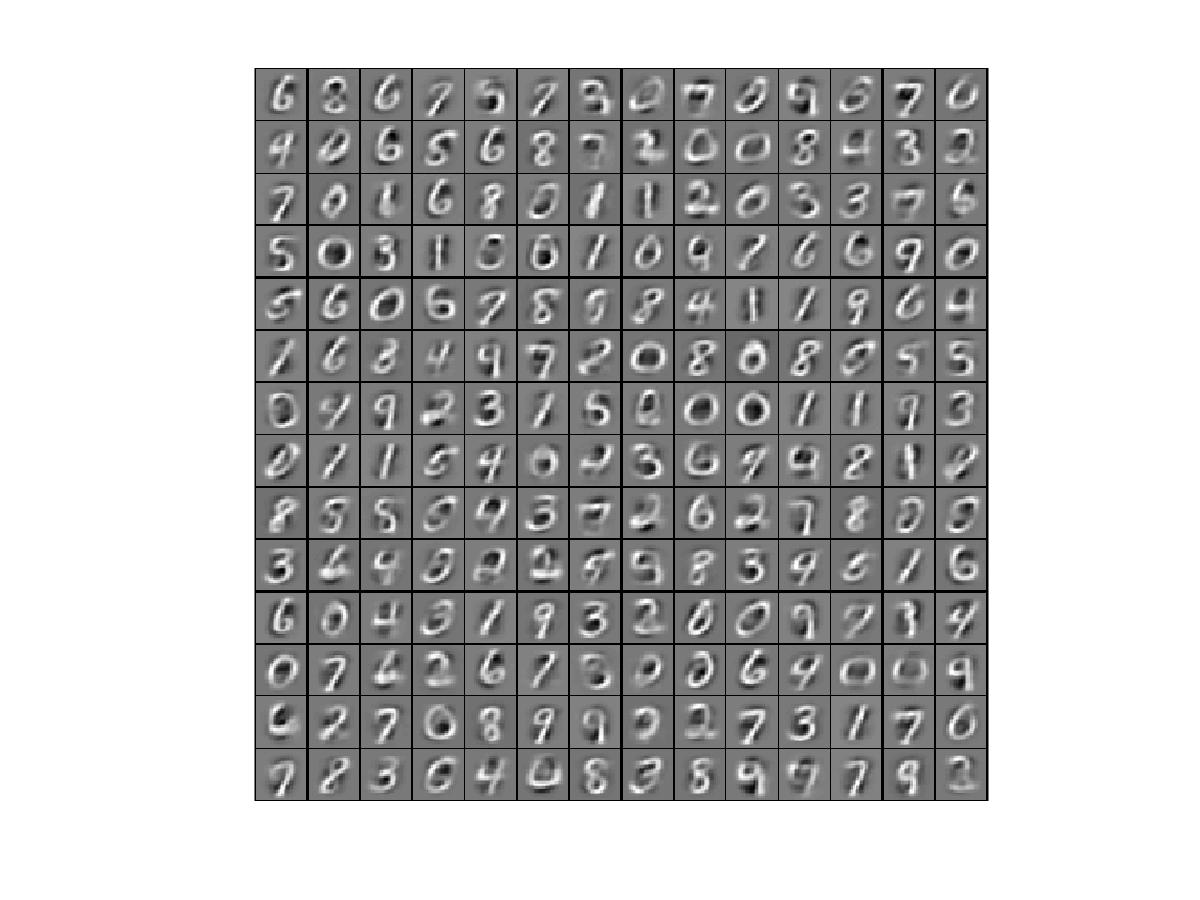
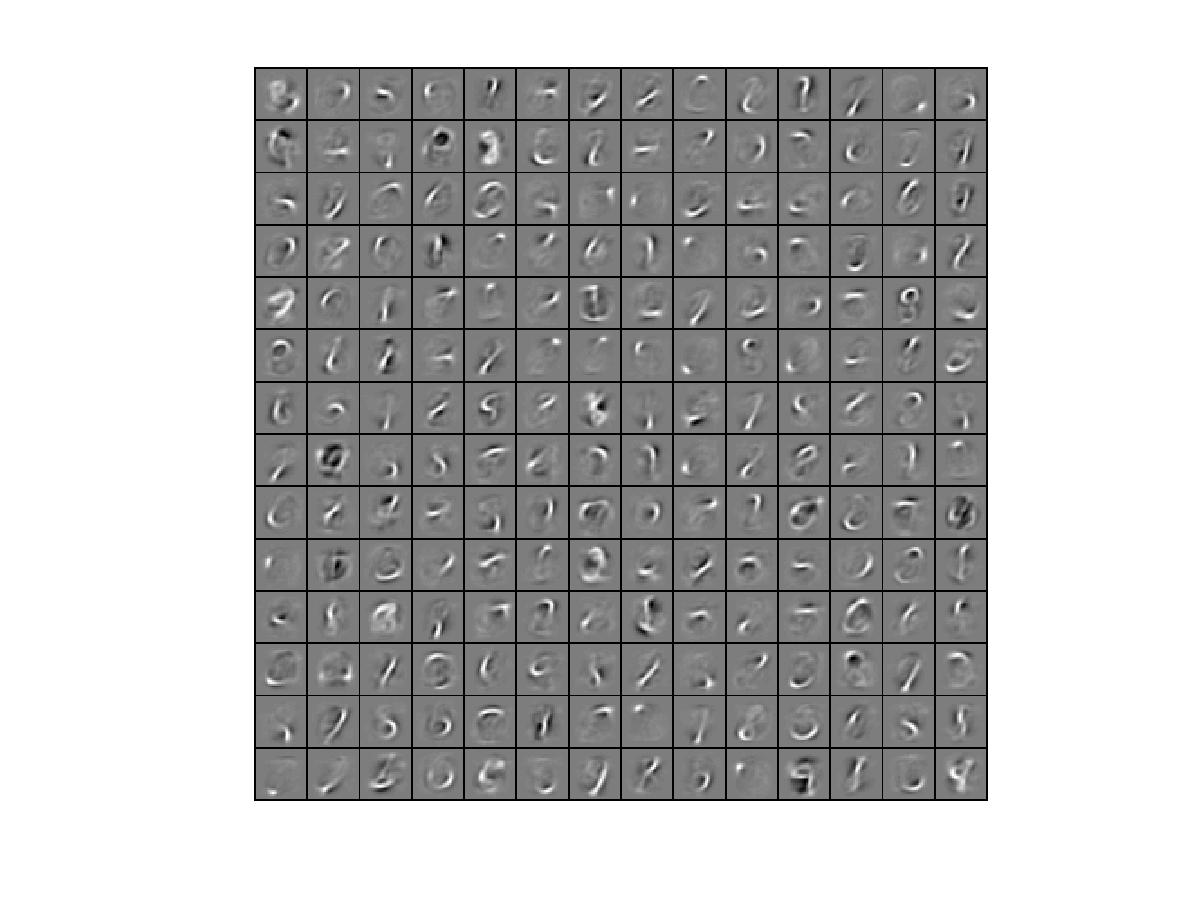
update

Changed region(s): [[0.2158, 0.0622, 0.8325, 0.9022]]

diff --git a/Vectorization/train.m b/Vectorization/train.m
@@ -1,3 +1,4 @@
+clc; close all;
 %% Learn MNIST by Sparse Autoencoder
 
 %  Instructions
@@ -122,7 +123,7 @@ options.display = 'on';
 %% STEP 5: Visualization 
 
 W1 = reshape(opttheta(1:hiddenSize*visibleSize), hiddenSize, visibleSize);
-display_network(W1'); 
+display_network(W1', 12); 
 
 print -djpeg weights.jpg   % save the visualization to a file 
 

diff --git a/Vectorization/sampleIMAGES.m b/Vectorization/sampleIMAGES.m
@@ -10,7 +10,8 @@ patches = images(:, 1:10000)
 % Specifically, since the output of the network is bounded between [0,1]
 % (due to the sigmoid activation function), we have to make sure 
 % the range of pixel values is also bounded between [0,1]
-patches = normalizeData(patches);
+
+% patches = normalizeData(patches);
 
 end
 
